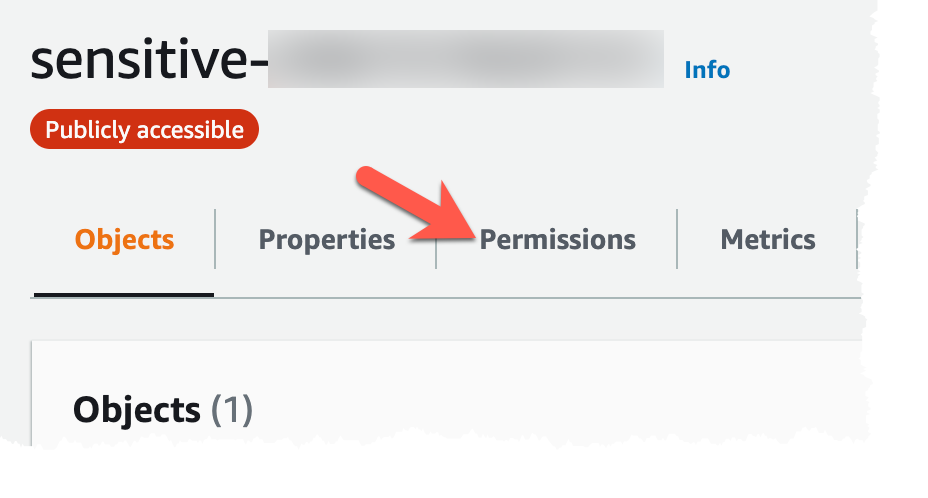
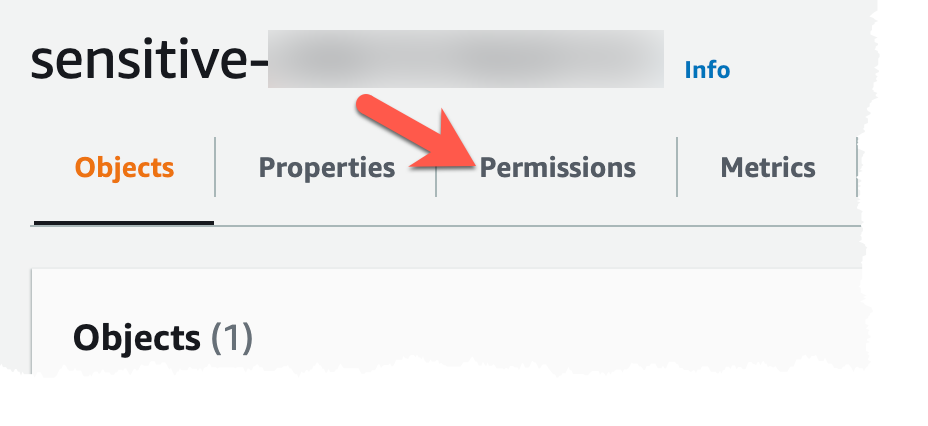
Fixing some command lines and images

diff --git a/workbook/docs/exercises/exercise4.md b/workbook/docs/exercises/exercise4.md
@@ -38,9 +38,12 @@ Since this `customers.csv` file and anything else that may end up in the `sensit
     2. Grab your AWS account number and create a new bucket called `security-` followed by the account number.
 
         ```bash
+        BUCKET=$(aws s3api list-buckets | \
+              jq -r '.Buckets[] | select(.Name | startswith("sensitive-")) | .Name')
+        REGION=$(aws s3api get-bucket-location --bucket $BUCKET --query LocationConstraint --output text)
         ACCTNUM=$(aws sts get-caller-identity --query 'Account' --output text)
         echo "The account number is: $ACCTNUM"
-        aws s3api create-bucket --bucket security-$ACCTNUM
+        aws s3api create-bucket --bucket security-1$ACCTNUM --create-bucket-configuration LocationConstraint=$REGION
         ```
 
         !!! summary "Sample result"

diff --git a/workbook/docs/exercises/exercise2.md b/workbook/docs/exercises/exercise2.md
@@ -35,7 +35,7 @@ Use either the AWS Management Console (as shown in the solution below) or the AW
 
         ![](../img/8.png ""){: class="w600" }
 
-    2. On the next page, you should see your S3 bucket starting with the name `sensitive-`. Also note that, in the **Access** column, it lists this bucket as **Public** with a hazard sign next to it (1) - signifying that this may not be an appropriate configuration for this bucket (although this can be done purposefully if you want to share something publicly). Click on the name of the bucket (2) to edit its configuration.
+    2. On the next page, you should see your S3 bucket starting with the name `sensitive-`.  Click on the name of the bucket (2) to edit its configuration.
 
         ![](../img/9.png ""){: class="w600" }
 
